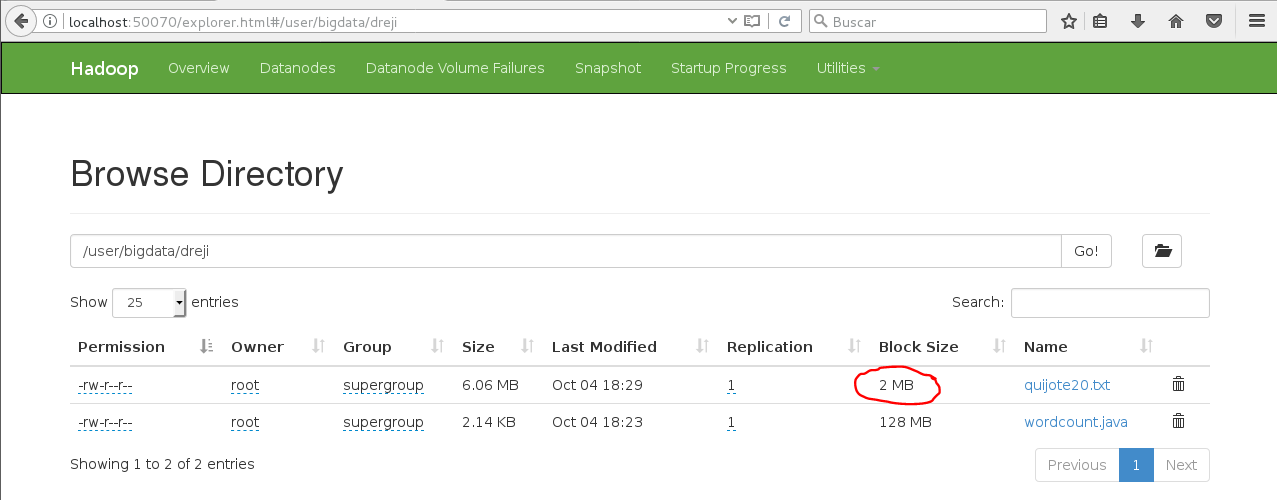
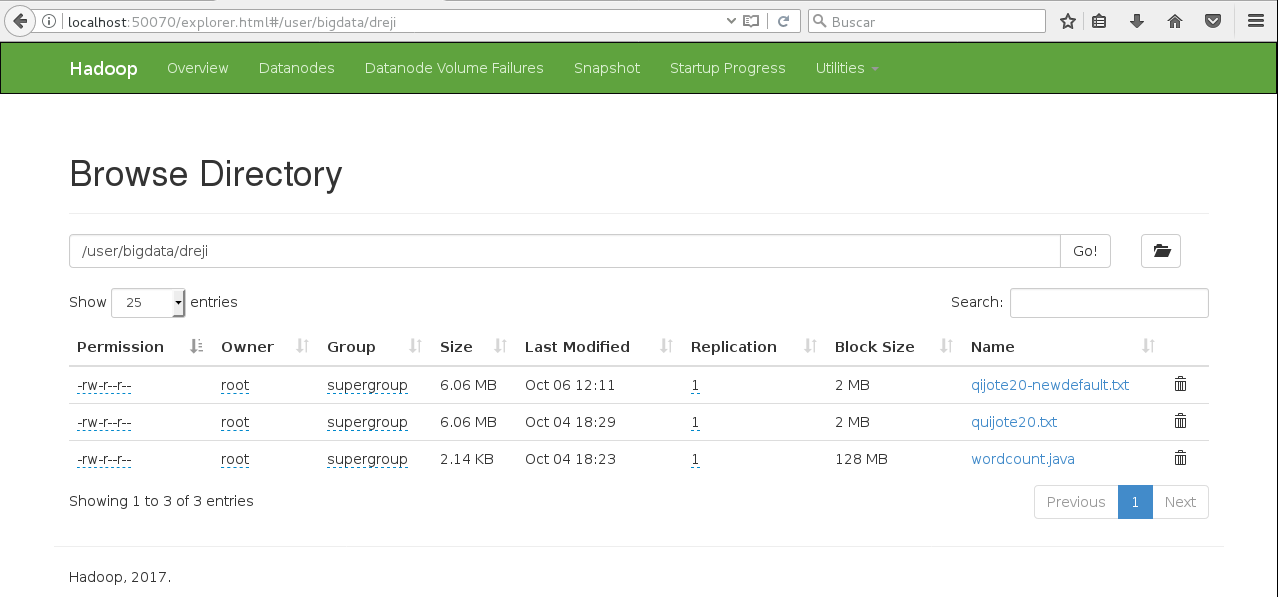
Working on exercise 4

diff --git a/Práctica1/P1-PDGE.md b/Práctica1/P1-PDGE.md
@@ -255,8 +255,26 @@ Creamos un archivo con 20 copias del Quijote llamado `quijote20.txt`. Lo subimos
 bin/hdfs dfs -D dfs.blocksize=2097152 -put quijote20.txt /user/bigdata/dreji
 ```
 
-### Pregunta 3.5:  Cuántas veces aparecen las siguientes palabras: el, dijo
+Por otro lado, también podemos cambiar el valor por defecto del tamaño de bloque para no tener que especificar el tamaño 2MB cada vez que subamos un archivo. Para ello cambiamos el tamaño de bloque en los archivos de configuración de hdfs editando `hdfs-site.xml`, añadiendo:
 
+```xml
+<property>
+        <name>dfs.block.size</name>
+        <value>2097152</value>
+</property>
+```
+
+Y reiniciamos dfs y yarn para asegurarnos que la configuración activa incluye los cambios realizados. Subimos de nuevo el archivo `quijote20.txt` sin especificar el tamaño de bloque utilizando la siguiente orden:
+
+```bash
+bin/hdfs dfs -put quijote20.txt /user/bigdata/dreji/quijote20-newdefault.txt
+```
+
+A continuación accedemos a [http://localhost:50070/explorer.html#/user/bigdata/dreji] para comprobar los resultados.
+
+TODO: añadir imagen quijote20
+
+Podemos ver cómo las dos versiones del `quijote20.txt` subidas tienen tamaño de bloque de 2MB, mientras que cuando subimos un archivo antes de cambiar el valor de tamaño de bloques por defecto, este tenía 128MB de tamaño de bloque. Esto responde a los apartados 4.1, 4.2 y 4.3 del guión.
 
 # Parte 2 : Tutorial de Spark
 
